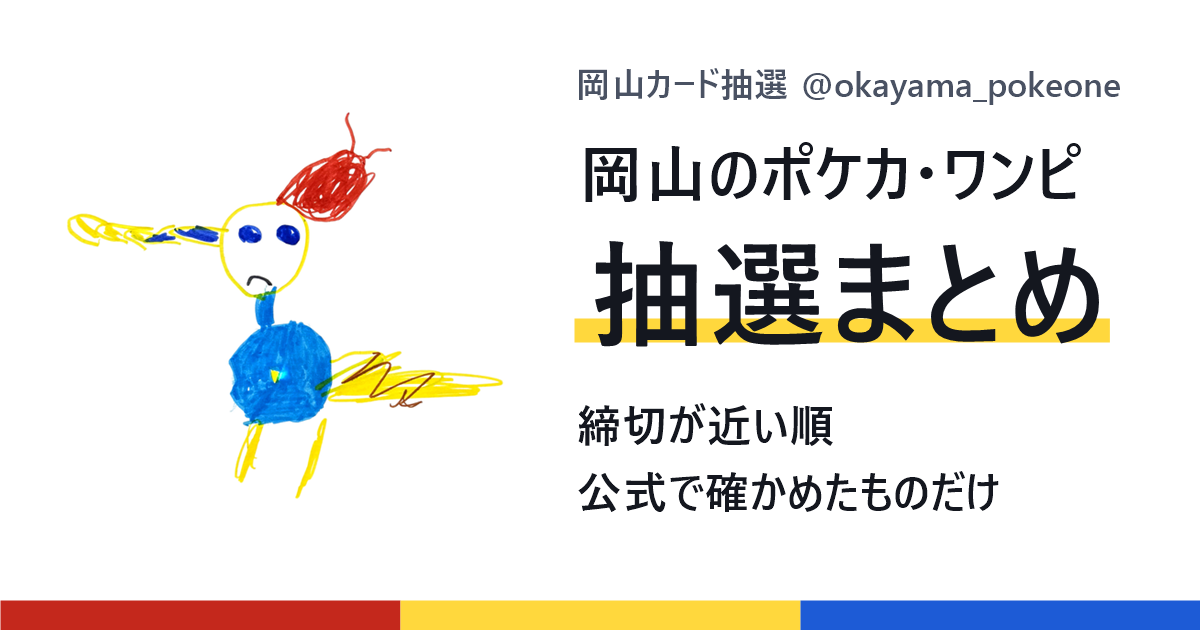
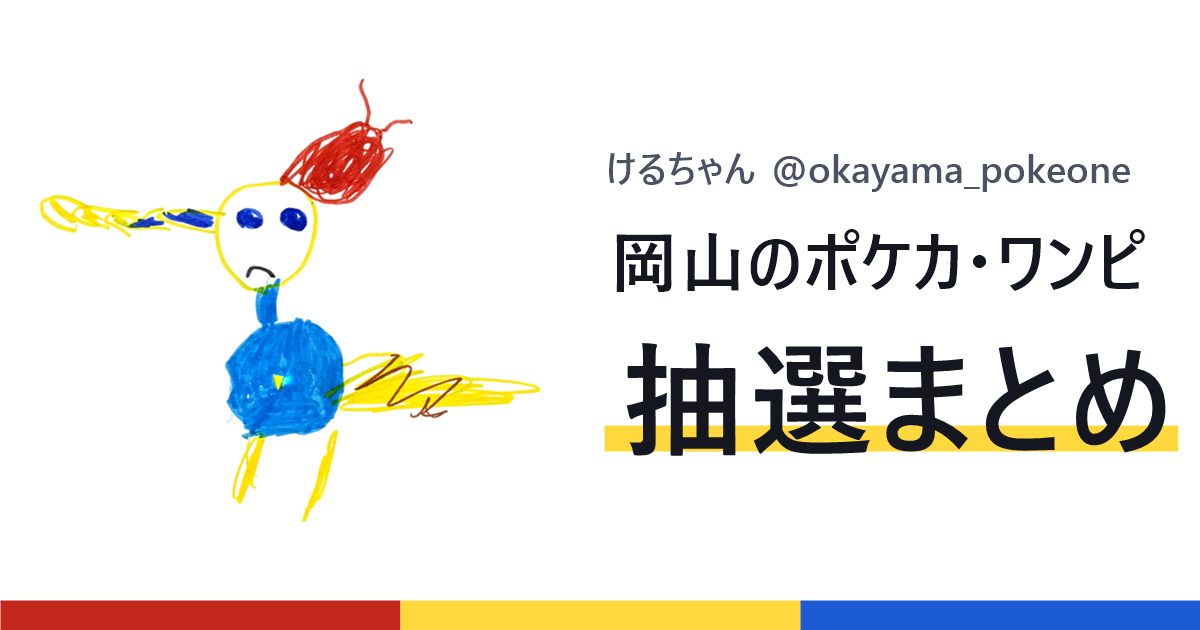
Update index.html (11/10 10:06) + brand name keru, ogp

diff --git a/index.html b/index.html
@@ -77,19 +77,19 @@ h1 em{display:inline-block;font-style:normal;font-size:30px;font-weight:800;line
 footer{margin:34px 0 0;font-size:12px;color:var(--sub)}footer p{margin:0 0 10px}
 footer a{display:inline-flex;align-items:center;min-height:44px}
 </style></head><body>
-<header class="top"><span class="brand">岡山カード抽選 @okayama_pokeone</span><a class="fl" href="https://x.com/okayama_pokeone" rel="noopener noreferrer">フォロー</a></header>
+<header class="top"><span class="brand">けるちゃん @okayama_pokeone</span><a class="fl" href="https://x.com/okayama_pokeone" rel="noopener noreferrer">フォロー</a></header>
 <main>
 <div class="hero"><img src="assets/keru_icon.png" width="104" height="104" alt="けるちゃん"><h1><span>岡山のポケカ・ワンピ</span><em>抽選まとめ</em></h1></div>
 <p class="bubble">お店の公式の告知で確かめた抽選だけを、締切が近い順にのせてるよ。応募の前に、条件はかならずリンク先で確かめてね。</p>
 <div class="cnts"><a class="cnt c-red" href="#d-today">きょう締切 <b>1件</b></a><a class="cnt c-yel" href="#d-tomorrow">あした締切 <b>2件</b></a><a class="cnt c-gray" href="#d-20261112">そのあと <b>12件</b></a></div>
-<p class="upd"><svg viewBox="0 0 16 16" aria-hidden="true"><circle cx="8" cy="8" r="6.5" fill="none" stroke="currentColor" stroke-width="1.5"/><path d="M8 4.5V8l2.5 1.5" fill="none" stroke="currentColor" stroke-width="1.5" stroke-linecap="round"/></svg><span>最終更新 11/10(火) 8:37</span></p>
+<p class="upd"><svg viewBox="0 0 16 16" aria-hidden="true"><circle cx="8" cy="8" r="6.5" fill="none" stroke="currentColor" stroke-width="1.5"/><path d="M8 4.5V8l2.5 1.5" fill="none" stroke="currentColor" stroke-width="1.5" stroke-linecap="round"/></svg><span>最終更新 11/10(火) 10:06</span></p>
 <div class="filters" id="filters" hidden><div class="fr"><button type="button" class="chip" data-g="all" aria-pressed="true">すべて</button><button type="button" class="chip" data-g="ポケカ" aria-pressed="false">ポケカ</button><button type="button" class="chip" data-g="ワンピ" aria-pressed="false">ワンピ</button><span class="sep"></span><button type="button" class="chip" data-k="shop" aria-pressed="false">お店</button><button type="button" class="chip" data-k="mail" aria-pressed="false">通販</button></div><div class="fr prods"><span class="lbl">商品</span><button type="button" class="chip" data-p="ハドウシーカー" aria-pressed="false">ハドウシーカー</button><button type="button" class="chip" data-p="神の支配" aria-pressed="false">神の支配</button><button type="button" class="chip" data-p="30th CELEBRATION" aria-pressed="false">30th CELEBRATION</button></div></div>
-<section class="day" id="d-today"><div class="dh"><div class="cal today"><span class="mo">11月</span><span class="dn">10</span></div><div><h2>きょうが締切</h2><p>11/10(火)・きょう中</p></div></div><div class="box today"><article class="item" data-genre="ポケカ" data-kind="mail" data-p="ハドウシーカー"><div class="r1"><div class="tags"><span class="tag pk">ポケカ</span><span class="tag mail">通販</span><span class="tag new">NEW</span></div><span class="dl now"><b>16:59</b>まで</span></div><div class="r2"><div class="main"><p class="prod">ハドウシーカー</p><p class="shop">ポケモンセンターオンライン ・ 6,000円（税込）・送料なし</p></div></div><div class="btns"><a class="btn hot wide" href="https://www.pokemoncenter-online.com/news/?id=20261030" rel="noopener noreferrer">ポケセンオンラインのお知らせ ＞</a><a class="btn hot wide" href="https://www.pokemoncenter-online.com/9900000008482.html" rel="noopener noreferrer">本人認証済み枠 ＞</a><a class="btn hot wide" href="https://www.pokemoncenter-online.com/9900000008567.html" rel="noopener noreferrer">本人未認証枠 ＞</a></div><p class="cond">1人1回まで。プレイヤーズクラブで本人認証した人は「本人認証済み枠」、していない人は「本人未認証枠」から応募（違う枠から応募すると落選。認証済みの枠のほうが当選数が多い）。認証済み枠はポケセンオンラインとプレイヤーズクラブの登録メールアドレスを同じにしておく。未認証枠は電話番号認証が必要で、支払いはクレジットカードのみ。過去にポケセンオンラインで同じ商品を買った人は落選</p><details class="more"><summary>条件と日程をぜんぶ見る <span class="pl">＋</span><span class="mi">−</span></summary><table class="tb"><tbody><tr><th>受付</th><td>11/6(金) 16:00〜11/10(火) 16:59</td></tr><tr><th>当選発表</th><td>11/17(火) 15:00</td></tr><tr><th>購入・受取</th><td>11/17(火) 15:00〜11/24(火) 16:59</td></tr><tr><th>応募方法</th><td>ポケモンセンターオンラインにログインして、自分に合う枠の商品ページから応募。当選したら注文期間内に注文・支払い（12/1〜12/18 発送予定）</td></tr><tr><th>条件</th><td>1人1回まで。プレイヤーズクラブで本人認証した人は「本人認証済み枠」、していない人は「本人未認証枠」から応募（違う枠から応募すると落選。認証済みの枠のほうが当選数が多い）。認証済み枠はポケセンオンラインとプレイヤーズクラブの登録メールアドレスを同じにしておく。未認証枠は電話番号認証が必要で、支払いはクレジットカードのみ。過去にポケセンオンラインで同じ商品を買った人は落選</td></tr><tr><th>公式を確認</th><td>11/9(月)</td></tr></tbody></table></details></article></div></section><section class="day" id="d-tomorrow"><div class="dh"><div class="cal"><span class="mo">11月</span><span class="dn">11</span></div><div><h2>あしたが締切</h2><p>11/11(水)・あと1日</p></div></div><div class="box"><article class="item" data-genre="ポケカ" data-kind="mail" data-p="ハドウシーカー"><div class="r1"><div class="tags"><span class="tag pk">ポケカ</span><span class="tag mail">通販</span><span class="tag new">NEW</span></div><span class="dl"><b>10:59</b>まで</span></div><div class="r2"><div class="main"><p class="prod">ハドウシーカー</p><p class="shop">ヨドバシ.com</p></div><a class="btn hot" href="https://limited.yodobashi.com/entry/shared/" rel="noopener noreferrer">応募ページ ＞</a></div><p class="soon">受付は きょう 11:00 から</p><p class="cond">ヨドバシ・ドット・コム会員。2024/11/6〜2026/11/5 にヨドバシ・ドット・コムで買った人、またはヨドバシカメラの店で買って 11/5 までにポイント共通化した人が抽選の対象。iPhone のヨドバシアプリからは申し込めない（ブラウザから）</p><details class="more"><summary>条件と日程をぜんぶ見る <span class="pl">＋</span><span class="mi">−</span></summary><table class="tb"><tbody><tr><th>受付</th><td>11/10(火) 11:00〜11/11(水) 10:59</td></tr><tr><th>当選発表</th><td>11/11(水) 18:00</td></tr><tr><th>購入・受取</th><td>11/12(木) 23:59</td></tr><tr><th>応募方法</th><td>ヨドバシ.com の抽選ページから申し込み。当選したら注文期限までに注文し、配送か店舗受け取りを選ぶ</td></tr><tr><th>条件</th><td>ヨドバシ・ドット・コム会員。2024/11/6〜2026/11/5 にヨドバシ・ドット・コムで買った人、またはヨドバシカメラの店で買って 11/5 までにポイント共通化した人が抽選の対象。iPhone のヨドバシアプリからは申し込めない（ブラウザから）</td></tr><tr><th>公式を確認</th><td>11/10(火)</td></tr></tbody></table></details></article><article class="item" data-genre="ポケカ" data-kind="mail" data-p="ハドウシーカー"><div class="r1"><div class="tags"><span class="tag pk">ポケカ</span><span class="tag mail">通販</span><span class="tag new">NEW</span></div><span class="dl"><b>18:00</b>まで</span></div><div class="r2"><div class="main"><p class="prod">ハドウシーカー</p><p class="shop">晴れる屋2通販</p></div><a class="btn hot" href="https://livepocket.jp/e/s191v" rel="noopener noreferrer">応募ページ ＞</a></div><p class="cond">LivePocket で申し込む抽選（販売元 株式会社晴れる屋）</p><details class="more"><summary>条件と日程をぜんぶ見る <span class="pl">＋</span><span class="mi">−</span></summary><table class="tb"><tbody><tr><th>受付</th><td>11/5(木) 18:00〜11/11(水) 18:00</td></tr><tr><th>当選発表</th><td>11/16(月)</td></tr><tr><th>応募方法</th><td>LivePocket の応募ページから申し込み</td></tr><tr><th>条件</th><td>LivePocket で申し込む抽選（販売元 株式会社晴れる屋）</td></tr><tr><th>公式を確認</th><td>11/10(火)</td></tr></tbody></table></details></article></div></section><aside class="follow"><img src="assets/keru_icon.png" width="60" height="60" alt=""><div><p>新しい抽選が出たら、Xでお知らせしてるよ。</p><a class="fbtn" href="https://x.com/okayama_pokeone" rel="noopener noreferrer">@okayama_pokeone をフォローする</a></div></aside><section class="day" id="d-20261112"><div class="dh"><div class="cal"><span class="mo">11月</span><span class="dn">12</span></div><div><h2>木曜日が締切</h2><p>11/12(木)・あと2日</p></div></div><div class="box"><article class="item" data-genre="ポケカ" data-kind="mail" data-p="30th CELEBRATION"><div class="r1"><div class="tags"><span class="tag pk">ポケカ</span><span class="tag mail">通販</span><span class="tag new">NEW</span></div><span class="dl"><b>17:59</b>まで</span></div><div class="r2"><div class="main"><p class="prod">30th CELEBRATION</p><p class="shop">ゲオ</p></div><a class="btn" href="https://geo-online.co.jp/news/790" rel="noopener noreferrer">応募ページ ＞</a></div><p class="cond">店舗レンタル会員機能付きPontaカードとゲオアプリの連携が済んでいる人・購入時に本人確認書類と会員証を見せる・自分のスマホの『店舗購入』画面を見せる（スクショ不可）・再販・1人1点・1回まで・外箱は店舗回収でパックのみの受け渡し</p><details class="more"><summary>条件と日程をぜんぶ見る <span class="pl">＋</span><span class="mi">−</span></summary><table class="tb"><tbody><tr><th>受付</th><td>11/9(月) 11:00〜11/12(木) 17:59</td></tr><tr><th>応募方法</th><td>ゲオの公式お知らせから申し込み</td></tr><tr><th>条件</th><td>店舗レンタル会員機能付きPontaカードとゲオアプリの連携が済んでいる人・購入時に本人確認書類と会員証を見せる・自分のスマホの『店舗購入』画面を見せる（スクショ不可）・再販・1人1点・1回まで・外箱は店舗回収でパックのみの受け渡し</td></tr><tr><th>公式を確認</th><td>11/9(月)</td></tr></tbody></table></details></article><article class="item" data-genre="ポケカ" data-kind="mail" data-p="ハドウシーカー"><div class="r1"><div class="tags"><span class="tag pk">ポケカ</span><span class="tag mail">通販</span><span class="tag new">NEW</span></div><span class="dl"><b>17:59</b>まで</span></div><div class="r2"><div class="main"><p class="prod">ハドウシーカー</p><p class="shop">ゲオ</p></div><a class="btn" href="https://geo-online.co.jp/news/789" rel="noopener noreferrer">応募ページ ＞</a></div><p class="cond">店舗レンタル会員機能付きPontaカードとゲオアプリの連携が済んでいる人・購入時に本人確認書類と会員証を見せる・自分のスマホの『店舗購入』画面を見せる（スクショ不可）・1人1点・1回まで・外箱は店舗回収でパックのみの受け渡し</p><details class="more"><summary>条件と日程をぜんぶ見る <span class="pl">＋</span><span class="mi">−</span></summary><table class="tb"><tbody><tr><th>受付</th><td>11/9(月) 11:00〜11/12(木) 17:59</td></tr><tr><th>応募方法</th><td>ゲオの公式お知らせから申し込み</td></tr><tr><th>条件</th><td>店舗レンタル会員機能付きPontaカードとゲオアプリの連携が済んでいる人・購入時に本人確認書類と会員証を見せる・自分のスマホの『店舗購入』画面を見せる（スクショ不可）・1人1点・1回まで・外箱は店舗回収でパックのみの受け渡し</td></tr><tr><th>公式を確認</th><td>11/9(月)</td></tr></tbody></table></details></article><article class="item" data-genre="ポケカ" data-kind="mail" data-p="ハドウシーカー"><div class="r1"><div class="tags"><span class="tag pk">ポケカ</span><span class="tag mail">通販</span><span class="tag new">NEW</span></div><span class="dl"><b>19:59</b>まで</span></div><div class="r2"><div class="main"><p class="prod">ハドウシーカー</p><p class="shop">キッズリパブリック（イオン） ・ 5,973円（税込）</p></div><a class="btn" href="https://www.kidsrepublic.jp/campaign/campaign_detail/20261127pokemoncardgame" rel="noopener noreferrer">応募ページ ＞</a></div><p class="cond">1人1ID1回。iAEON ID（携帯電話番号のログインID）の連携が必要。受け取り店は本州・四国のイオン・イオンスタイル・スーパーセンターの直営おもちゃ売場（一部を除く）</p><details class="more"><summary>条件と日程をぜんぶ見る <span class="pl">＋</span><span class="mi">−</span></summary><table class="tb"><tbody><tr><th>受付</th><td>11/6(金) 11:00〜11/12(木) 19:59</td></tr><tr><th>当選発表</th><td>11/26(木) 12:00</td></tr><tr><th>購入・受取</th><td>11/27(金)〜12/2(水)</td></tr><tr><th>応募方法</th><td>キッズリパブリックアプリの応募ページから申し込み（店頭では受け付けない）。当選はアプリのクーポンで届く</td></tr><tr><th>条件</th><td>1人1ID1回。iAEON ID（携帯電話番号のログインID）の連携が必要。受け取り店は本州・四国のイオン・イオンスタイル・スーパーセンターの直営おもちゃ売場（一部を除く）</td></tr><tr><th>公式を確認</th><td>11/10(火)</td></tr></tbody></table></details></article><article class="item" data-genre="ワンピ" data-kind="mail" data-p="神の支配"><div class="r1"><div class="tags"><span class="tag op">ワンピ</span><span class="tag mail">通販</span><span class="tag new">NEW</span></div><span class="dl"><b>23:00</b>まで</span></div><div class="r2"><div class="main"><p class="prod">神の支配</p><p class="shop">プレミアムバンダイ ・ 5,760円（税込）</p></div><a class="btn" href="https://p-bandai.jp/item/item-1000260752/" rel="noopener noreferrer">応募ページ ＞</a></div><p class="cond">1人1BOXまで。支払いはクレジットカード前払い・プレバンPay（応募時払い）・ペイディのどれか。当選発表は11月中・12月発送予定</p><details class="more"><summary>条件と日程をぜんぶ見る <span class="pl">＋</span><span class="mi">−</span></summary><table class="tb"><tbody><tr><th>受付</th><td>11/6(金) 12:00〜11/12(木) 23:00</td></tr><tr><th>応募方法</th><td>プレミアムバンダイの商品ページから抽選に申し込み（会員登録が必要）</td></tr><tr><th>条件</th><td>1人1BOXまで。支払いはクレジットカード前払い・プレバンPay（応募時払い）・ペイディのどれか。当選発表は11月中・12月発送予定</td></tr><tr><th>公式を確認</th><td>11/9(月)</td></tr></tbody></table></details></article></div></section><section class="day" id="d-20261114"><div class="dh"><div class="cal"><span class="mo">11月</span><span class="dn">14</span></div><div><h2>土曜日が締切</h2><p>11/14(土)・あと4日</p></div></div><div class="box"><article class="item" data-genre="ワンピ" data-kind="shop" data-p="神の支配"><div class="r1"><div class="tags"><span class="tag op">ワンピ</span><span class="tag new">NEW</span></div><span class="dl"><b>23:59</b>まで</span></div><div class="r2"><div class="main"><p class="prod">神の支配</p><p class="shop">TSUTAYA AZ岡南店 ・ 5,760円（税込）</p></div><a class="btn" href="https://livepocket.jp/e/3-y20" rel="noopener noreferrer">応募ページ ＞</a></div><p class="cond">1人1回まで。LivePocket の会員登録（無料）が必要で、本人確認書類と同じ名前で申し込む。購入時に顔写真付きの本人確認書類が必要。店頭渡しのみ（発送なし）</p><details class="more"><summary>条件と日程をぜんぶ見る <span class="pl">＋</span><span class="mi">−</span></summary><table class="tb"><tbody><tr><th>受付</th><td>11/8(日) 9:00〜11/14(土) 23:59</td></tr><tr><th>当選発表</th><td>11/15(日)</td></tr><tr><th>購入・受取</th><td>11/21(土) 9:00〜11/22(日) 23:59</td></tr><tr><th>応募方法</th><td>LivePocket で応募（店頭のQRコードからも同じページ）</td></tr><tr><th>条件</th><td>1人1回まで。LivePocket の会員登録（無料）が必要で、本人確認書類と同じ名前で申し込む。購入時に顔写真付きの本人確認書類が必要。店頭渡しのみ（発送なし）</td></tr><tr><th>公式を確認</th><td>11/10(火)</td></tr></tbody></table></details></article></div></section><section class="day" id="d-20261115"><div class="dh"><div class="cal"><span class="mo">11月</span><span class="dn">15</span></div><div><h2>日曜日が締切</h2><p>11/15(日)・あと5日</p></div></div><div class="box"><article class="item" data-genre="ワンピ" data-kind="shop" data-p="神の支配"><div class="r1"><div class="tags"><span class="tag op">ワンピ</span><span class="tag new">NEW</span></div><span class="dl none">時刻は告知で確認</span></div><div class="r2"><div class="main"><p class="prod">神の支配</p><p class="shop">カードボックス玉島店、カードボックス藤田店、カードボックス岡山駅前店</p></div></div><div class="btns"><a class="btn wide" href="https://x.com/media21tama" rel="noopener noreferrer">カードボックス玉島店（公式X） ＞</a><a class="btn wide" href="https://x.com/21P4" rel="noopener noreferrer">カードボックス藤田店（公式X） ＞</a><a class="btn wide" href="https://x.com/Cardbox_okayama" rel="noopener noreferrer">カードボックス岡山駅前店（公式X） ＞</a></div><p class="cond">11/8 までに会員になっている人・1家族（同じ住所）1枚まで・系列店で1枚だけ（抽選券はお店で配布）</p><details class="more"><summary>条件と日程をぜんぶ見る <span class="pl">＋</span><span class="mi">−</span></summary><table class="tb"><tbody><tr><th>締切</th><td>11/15(日)</td></tr><tr><th>当選発表</th><td>11/20(金)</td></tr><tr><th>購入・受取</th><td>11/21(土)〜11/30(月)</td></tr><tr><th>応募方法</th><td>お店で抽選券をもらう</td></tr><tr><th>条件</th><td>11/8 までに会員になっている人・1家族（同じ住所）1枚まで・系列店で1枚だけ（抽選券はお店で配布）</td></tr><tr><th>必要なもの</th><td>会員証・顔写真付きの身分証</td></tr><tr><th>公式を確認</th><td>11/9(月)</td></tr></tbody></table></details></article><article class="item" data-genre="ポケカ" data-kind="shop" data-p="30th CELEBRATION"><div class="r1"><div class="tags"><span class="tag pk">ポケカ</span><span class="tag new">NEW</span></div><span class="dl"><b>21:59</b>まで</span></div><div class="r2"><div class="main"><p class="prod">30th CELEBRATION</p><p class="shop">TSUTAYA大安寺店 ・ 7,200円（税込）</p></div><a class="btn" href="https://livepocket.jp/e/fksqs" rel="noopener noreferrer">応募ページ ＞</a></div><p class="cond">おひとり様1BOXまで・本人が来店して購入・外箱は回収しパックのみの受け渡し</p><details class="more"><summary>条件と日程をぜんぶ見る <span class="pl">＋</span><span class="mi">−</span></summary><table class="tb"><tbody><tr><th>受付</th><td>11/6(金) 21:29〜11/15(日) 21:59</td></tr><tr><th>当選発表</th><td>11/16(月)</td></tr><tr><th>購入・受取</th><td>11/23(月) 9:00〜11/26(木) 21:59</td></tr><tr><th>応募方法</th><td>LivePocket から申し込み（会員登録は無料）</td></tr><tr><th>条件</th><td>おひとり様1BOXまで・本人が来店して購入・外箱は回収しパックのみの受け渡し</td></tr><tr><th>必要なもの</th><td>写真付きの本人確認書類</td></tr><tr><th>公式を確認</th><td>11/9(月)</td></tr></tbody></table></details></article><article class="item" data-genre="ポケカ" data-kind="shop" data-p="ハドウシーカー"><div class="r1"><div class="tags"><span class="tag pk">ポケカ</span><span class="tag new">NEW</span></div><span class="dl"><b>21:59</b>まで</span></div><div class="r2"><div class="main"><p class="prod">ハドウシーカー</p><p class="shop">TSUTAYA大安寺店 ・ 6,000円（税込）</p></div><a class="btn" href="https://livepocket.jp/e/vqetd" rel="noopener noreferrer">応募ページ ＞</a></div><p class="cond">おひとり様1BOXまで・本人が来店して購入・シュリンクははがしてパックのみの受け渡し</p><details class="more"><summary>条件と日程をぜんぶ見る <span class="pl">＋</span><span class="mi">−</span></summary><table class="tb"><tbody><tr><th>受付</th><td>11/6(金) 20:59〜11/15(日) 21:59</td></tr><tr><th>当選発表</th><td>11/16(月)</td></tr><tr><th>購入・受取</th><td>11/27(金) 9:00〜11/29(日) 21:59</td></tr><tr><th>応募方法</th><td>LivePocket から申し込み（会員登録は無料）</td></tr><tr><th>条件</th><td>おひとり様1BOXまで・本人が来店して購入・シュリンクははがしてパックのみの受け渡し</td></tr><tr><th>必要なもの</th><td>写真付きの本人確認書類</td></tr><tr><th>公式を確認</th><td>11/9(月)</td></tr></tbody></table></details></article><article class="item" data-genre="ワンピ" data-kind="shop" data-p="神の支配"><div class="r1"><div class="tags"><span class="tag op">ワンピ</span><span class="tag new">NEW</span></div><span class="dl"><b>21:59</b>まで</span></div><div class="r2"><div class="main"><p class="prod">神の支配</p><p class="shop">TSUTAYA大安寺店 ・ 5,760円（税込）</p></div><a class="btn" href="https://livepocket.jp/e/bt0zd" rel="noopener noreferrer">応募ページ ＞</a></div><p class="cond">おひとり様1BOXまで・本人が来店して購入・外箱は回収しパックのみの受け渡し</p><details class="more"><summary>条件と日程をぜんぶ見る <span class="pl">＋</span><span class="mi">−</span></summary><table class="tb"><tbody><tr><th>受付</th><td>11/6(金) 21:03〜11/15(日) 21:59</td></tr><tr><th>当選発表</th><td>11/16(月)</td></tr><tr><th>購入・受取</th><td>11/21(土) 9:00〜11/22(日) 21:59</td></tr><tr><th>応募方法</th><td>LivePocket から申し込み（会員登録は無料）</td></tr><tr><th>条件</th><td>おひとり様1BOXまで・本人が来店して購入・外箱は回収しパックのみの受け渡し</td></tr><tr><th>必要なもの</th><td>写真付きの本人確認書類</td></tr><tr><th>公式を確認</th><td>11/9(月)</td></tr></tbody></table></details></article><article class="item" data-genre="ポケカ" data-kind="shop" data-p="ハドウシーカー"><div class="r1"><div class="tags"><span class="tag pk">ポケカ</span><span class="tag new">NEW</span></div><span class="dl"><b>22:00</b>まで</span></div><div class="r2"><div class="main"><p class="prod">ハドウシーカー（一般向け）</p><p class="shop">TSUTAYA山陽店 ・ 1BOX 6,000円（税込）</p></div><a class="btn" href="https://livepocket.jp/e/luqc8" rel="noopener noreferrer">応募ページ ＞</a></div><p class="cond">マイナンバーカードと、応募時に入力したポイントカードを見せられる人・お店のXアカウントをフォローしている人（販売時に確認）・応募は営業時間中（9〜22時）のみ・お1人様1回</p><details class="more"><summary>条件と日程をぜんぶ見る <span class="pl">＋</span><span class="mi">−</span></summary><table class="tb"><tbody><tr><th>受付</th><td>11/9(月) 9:00〜11/15(日) 22:00</td></tr><tr><th>当選発表</th><td>11/20(金)</td></tr><tr><th>購入・受取</th><td>11/27(金)〜11/29(日)</td></tr><tr><th>応募方法</th><td>LivePocket から申し込み</td></tr><tr><th>条件</th><td>マイナンバーカードと、応募時に入力したポイントカードを見せられる人・お店のXアカウントをフォローしている人（販売時に確認）・応募は営業時間中（9〜22時）のみ・お1人様1回</td></tr><tr><th>必要なもの</th><td>マイナンバーカード・ポイントカード</td></tr><tr><th>公式を確認</th><td>11/9(月)</td></tr></tbody></table></details></article><article class="item" data-genre="ポケカ" data-kind="shop" data-p="ハドウシーカー"><div class="r1"><div class="tags"><span class="tag pk">ポケカ</span><span class="tag new">NEW</span></div><span class="dl"><b>22:00</b>まで</span></div><div class="r2"><div class="main"><p class="prod">ハドウシーカー（プレイヤー向け）</p><p class="shop">TSUTAYA山陽店 ・ 1BOX 6,000円（税込）</p></div><a class="btn" href="https://livepocket.jp/e/kxmup" rel="noopener noreferrer">応募ページ ＞</a></div><p class="cond">2026/10/1〜11/8 にお店の公認大会へ最後まで参加した人・プレイヤーズクラブのアカウントがある人・応募は営業時間中（9〜22時）のみ・お1人様1回</p><details class="more"><summary>条件と日程をぜんぶ見る <span class="pl">＋</span><span class="mi">−</span></summary><table class="tb"><tbody><tr><th>受付</th><td>11/9(月) 9:00〜11/15(日) 22:00</td></tr><tr><th>当選発表</th><td>11/20(金)</td></tr><tr><th>購入・受取</th><td>11/27(金)〜11/29(日)</td></tr><tr><th>応募方法</th><td>LivePocket のアンケートにプレイヤーズクラブのIDとプレイヤーネームを入力</td></tr><tr><th>条件</th><td>2026/10/1〜11/8 にお店の公認大会へ最後まで参加した人・プレイヤーズクラブのアカウントがある人・応募は営業時間中（9〜22時）のみ・お1人様1回</td></tr><tr><th>必要なもの</th><td>プレイヤーズクラブのアカウント</td></tr><tr><th>公式を確認</th><td>11/9(月)</td></tr></tbody></table></details></article></div></section><section class="day" id="d-20261117"><div class="dh"><div class="cal"><span class="mo">11月</span><span class="dn">17</span></div><div><h2>来週の火曜日が締切</h2><p>11/17(火)・あと7日</p></div></div><div class="box"><article class="item" data-genre="ワンピ" data-kind="shop" data-p="神の支配"><div class="r1"><div class="tags"><span class="tag op">ワンピ</span><span class="tag new">NEW</span></div><span class="dl none">時刻は告知で確認</span></div><div class="r2"><div class="main"><p class="prod">神の支配</p><p class="shop">オレタン岡山本店</p></div><a class="btn" href="https://oretan.membercard.jp/lottery?search_store_id=118" rel="noopener noreferrer">応募ページ ＞</a></div><p class="cond">オレタン岡山本店のモバイル会員証が必要・ネット申込のみ・11/21発売分</p><details class="more"><summary>条件と日程をぜんぶ見る <span class="pl">＋</span><span class="mi">−</span></summary><table class="tb"><tbody><tr><th>締切</th><td>11/17(火)</td></tr><tr><th>応募方法</th><td>お店の応募ページからネットで申し込み</td></tr><tr><th>条件</th><td>オレタン岡山本店のモバイル会員証が必要・ネット申込のみ・11/21発売分</td></tr><tr><th>公式を確認</th><td>11/9(月)</td></tr></tbody></table></details></article></div></section>
+<section class="day" id="d-today"><div class="dh"><div class="cal today"><span class="mo">11月</span><span class="dn">10</span></div><div><h2>きょうが締切</h2><p>11/10(火)・きょう中</p></div></div><div class="box today"><article class="item" data-genre="ポケカ" data-kind="mail" data-p="ハドウシーカー"><div class="r1"><div class="tags"><span class="tag pk">ポケカ</span><span class="tag mail">通販</span><span class="tag new">NEW</span></div><span class="dl now"><b>16:59</b>まで</span></div><div class="r2"><div class="main"><p class="prod">ハドウシーカー</p><p class="shop">ポケモンセンターオンライン ・ 6,000円（税込）・送料なし</p></div></div><div class="btns"><a class="btn hot wide" href="https://www.pokemoncenter-online.com/news/?id=20261030" rel="noopener noreferrer">ポケセンオンラインのお知らせ ＞</a><a class="btn hot wide" href="https://www.pokemoncenter-online.com/9900000008482.html" rel="noopener noreferrer">本人認証済み枠 ＞</a><a class="btn hot wide" href="https://www.pokemoncenter-online.com/9900000008567.html" rel="noopener noreferrer">本人未認証枠 ＞</a></div><p class="cond">1人1回まで。プレイヤーズクラブで本人認証した人は「本人認証済み枠」、していない人は「本人未認証枠」から応募（違う枠から応募すると落選。認証済みの枠のほうが当選数が多い）。認証済み枠はポケセンオンラインとプレイヤーズクラブの登録メールアドレスを同じにしておく。未認証枠は電話番号認証が必要で、支払いはクレジットカードのみ。過去にポケセンオンラインで同じ商品を買った人は落選</p><details class="more"><summary>条件と日程をぜんぶ見る <span class="pl">＋</span><span class="mi">−</span></summary><table class="tb"><tbody><tr><th>受付</th><td>11/6(金) 16:00〜11/10(火) 16:59</td></tr><tr><th>当選発表</th><td>11/17(火) 15:00</td></tr><tr><th>購入・受取</th><td>11/17(火) 15:00〜11/24(火) 16:59</td></tr><tr><th>応募方法</th><td>ポケモンセンターオンラインにログインして、自分に合う枠の商品ページから応募。当選したら注文期間内に注文・支払い（12/1〜12/18 発送予定）</td></tr><tr><th>条件</th><td>1人1回まで。プレイヤーズクラブで本人認証した人は「本人認証済み枠」、していない人は「本人未認証枠」から応募（違う枠から応募すると落選。認証済みの枠のほうが当選数が多い）。認証済み枠はポケセンオンラインとプレイヤーズクラブの登録メールアドレスを同じにしておく。未認証枠は電話番号認証が必要で、支払いはクレジットカードのみ。過去にポケセンオンラインで同じ商品を買った人は落選</td></tr><tr><th>公式を確認</th><td>11/9(月)</td></tr></tbody></table></details></article></div></section><section class="day" id="d-tomorrow"><div class="dh"><div class="cal"><span class="mo">11月</span><span class="dn">11</span></div><div><h2>あしたが締切</h2><p>11/11(水)・あと1日</p></div></div><div class="box"><article class="item" data-genre="ポケカ" data-kind="mail" data-p="ハドウシーカー"><div class="r1"><div class="tags"><span class="tag pk">ポケカ</span><span class="tag mail">通販</span><span class="tag new">NEW</span></div><span class="dl"><b>10:59</b>まで</span></div><div class="r2"><div class="main"><p class="prod">ハドウシーカー</p><p class="shop">ヨドバシ.com</p></div><a class="btn hot" href="https://limited.yodobashi.com/entry/shared/" rel="noopener noreferrer">応募ページ ＞</a></div><p class="soon">受付は きょう 11:00 から</p><p class="cond">ヨドバシ・ドット・コム会員。2024/11/6〜2026/11/5 にヨドバシ・ドット・コムで買った人、またはヨドバシカメラの店で買って 11/5 までにポイント共通化した人が抽選の対象。iPhone のヨドバシアプリからは申し込めない（ブラウザから）</p><details class="more"><summary>条件と日程をぜんぶ見る <span class="pl">＋</span><span class="mi">−</span></summary><table class="tb"><tbody><tr><th>受付</th><td>11/10(火) 11:00〜11/11(水) 10:59</td></tr><tr><th>当選発表</th><td>11/11(水) 18:00</td></tr><tr><th>購入・受取</th><td>11/12(木) 23:59</td></tr><tr><th>応募方法</th><td>ヨドバシ.com の抽選ページから申し込み。当選したら注文期限までに注文し、配送か店舗受け取りを選ぶ</td></tr><tr><th>条件</th><td>ヨドバシ・ドット・コム会員。2024/11/6〜2026/11/5 にヨドバシ・ドット・コムで買った人、またはヨドバシカメラの店で買って 11/5 までにポイント共通化した人が抽選の対象。iPhone のヨドバシアプリからは申し込めない（ブラウザから）</td></tr><tr><th>公式を確認</th><td>11/10(火)</td></tr></tbody></table></details></article><article class="item" data-genre="ポケカ" data-kind="mail" data-p="ハドウシーカー"><div class="r1"><div class="tags"><span class="tag pk">ポケカ</span><span class="tag mail">通販</span><span class="tag new">NEW</span></div><span class="dl"><b>18:00</b>まで</span></div><div class="r2"><div class="main"><p class="prod">ハドウシーカー</p><p class="shop">晴れる屋2通販</p></div><a class="btn hot" href="https://livepocket.jp/e/s191v" rel="noopener noreferrer">応募ページ ＞</a></div><p class="cond">LivePocket で申し込む抽選（販売元 株式会社晴れる屋）</p><details class="more"><summary>条件と日程をぜんぶ見る <span class="pl">＋</span><span class="mi">−</span></summary><table class="tb"><tbody><tr><th>受付</th><td>11/5(木) 18:00〜11/11(水) 18:00</td></tr><tr><th>当選発表</th><td>11/16(月)</td></tr><tr><th>応募方法</th><td>LivePocket の応募ページから申し込み</td></tr><tr><th>条件</th><td>LivePocket で申し込む抽選（販売元 株式会社晴れる屋）</td></tr><tr><th>公式を確認</th><td>11/10(火)</td></tr></tbody></table></details></article></div></section><aside class="follow"><img src="assets/keru_icon.png" width="60" height="60" alt=""><div><p>新しい抽選が出たら、Xでお知らせしてるよ。</p><a class="fbtn" href="https://x.com/okayama_pokeone" rel="noopener noreferrer">@okayama_pokeone をフォローする</a></div></aside><section class="day" id="d-20261112"><div class="dh"><div class="cal"><span class="mo">11月</span><span class="dn">12</span></div><div><h2>木曜日が締切</h2><p>11/12(木)・あと2日</p></div></div><div class="box"><article class="item" data-genre="ポケカ" data-kind="mail" data-p="30th CELEBRATION"><div class="r1"><div class="tags"><span class="tag pk">ポケカ</span><span class="tag mail">通販</span><span class="tag new">NEW</span></div><span class="dl"><b>17:59</b>まで</span></div><div class="r2"><div class="main"><p class="prod">30th CELEBRATION</p><p class="shop">ゲオ</p></div><a class="btn" href="https://geo-online.co.jp/news/790" rel="noopener noreferrer">応募ページ ＞</a></div><p class="cond">店舗レンタル会員機能付きPontaカードとゲオアプリの連携が済んでいる人・購入時に本人確認書類と会員証を見せる・自分のスマホの『店舗購入』画面を見せる（スクショ不可）・再販・1人1点・1回まで・外箱は店舗回収でパックのみの受け渡し</p><details class="more"><summary>条件と日程をぜんぶ見る <span class="pl">＋</span><span class="mi">−</span></summary><table class="tb"><tbody><tr><th>受付</th><td>11/9(月) 11:00〜11/12(木) 17:59</td></tr><tr><th>応募方法</th><td>ゲオの公式お知らせから申し込み</td></tr><tr><th>条件</th><td>店舗レンタル会員機能付きPontaカードとゲオアプリの連携が済んでいる人・購入時に本人確認書類と会員証を見せる・自分のスマホの『店舗購入』画面を見せる（スクショ不可）・再販・1人1点・1回まで・外箱は店舗回収でパックのみの受け渡し</td></tr><tr><th>公式を確認</th><td>11/9(月)</td></tr></tbody></table></details></article><article class="item" data-genre="ポケカ" data-kind="mail" data-p="ハドウシーカー"><div class="r1"><div class="tags"><span class="tag pk">ポケカ</span><span class="tag mail">通販</span><span class="tag new">NEW</span></div><span class="dl"><b>17:59</b>まで</span></div><div class="r2"><div class="main"><p class="prod">ハドウシーカー</p><p class="shop">ゲオ</p></div><a class="btn" href="https://geo-online.co.jp/news/789" rel="noopener noreferrer">応募ページ ＞</a></div><p class="cond">店舗レンタル会員機能付きPontaカードとゲオアプリの連携が済んでいる人・購入時に本人確認書類と会員証を見せる・自分のスマホの『店舗購入』画面を見せる（スクショ不可）・1人1点・1回まで・外箱は店舗回収でパックのみの受け渡し</p><details class="more"><summary>条件と日程をぜんぶ見る <span class="pl">＋</span><span class="mi">−</span></summary><table class="tb"><tbody><tr><th>受付</th><td>11/9(月) 11:00〜11/12(木) 17:59</td></tr><tr><th>応募方法</th><td>ゲオの公式お知らせから申し込み</td></tr><tr><th>条件</th><td>店舗レンタル会員機能付きPontaカードとゲオアプリの連携が済んでいる人・購入時に本人確認書類と会員証を見せる・自分のスマホの『店舗購入』画面を見せる（スクショ不可）・1人1点・1回まで・外箱は店舗回収でパックのみの受け渡し</td></tr><tr><th>公式を確認</th><td>11/9(月)</td></tr></tbody></table></details></article><article class="item" data-genre="ポケカ" data-kind="mail" data-p="ハドウシーカー"><div class="r1"><div class="tags"><span class="tag pk">ポケカ</span><span class="tag mail">通販</span><span class="tag new">NEW</span></div><span class="dl"><b>19:59</b>まで</span></div><div class="r2"><div class="main"><p class="prod">ハドウシーカー</p><p class="shop">キッズリパブリック（イオン） ・ 5,973円（税込）</p></div><a class="btn" href="https://www.kidsrepublic.jp/campaign/campaign_detail/20261127pokemoncardgame" rel="noopener noreferrer">応募ページ ＞</a></div><p class="cond">1人1ID1回。iAEON ID（携帯電話番号のログインID）の連携が必要。受け取り店は本州・四国のイオン・イオンスタイル・スーパーセンターの直営おもちゃ売場（一部を除く）</p><details class="more"><summary>条件と日程をぜんぶ見る <span class="pl">＋</span><span class="mi">−</span></summary><table class="tb"><tbody><tr><th>受付</th><td>11/6(金) 11:00〜11/12(木) 19:59</td></tr><tr><th>当選発表</th><td>11/26(木) 12:00</td></tr><tr><th>購入・受取</th><td>11/27(金)〜12/2(水)</td></tr><tr><th>応募方法</th><td>キッズリパブリックアプリの応募ページから申し込み（店頭では受け付けない）。当選はアプリのクーポンで届く</td></tr><tr><th>条件</th><td>1人1ID1回。iAEON ID（携帯電話番号のログインID）の連携が必要。受け取り店は本州・四国のイオン・イオンスタイル・スーパーセンターの直営おもちゃ売場（一部を除く）</td></tr><tr><th>公式を確認</th><td>11/10(火)</td></tr></tbody></table></details></article><article class="item" data-genre="ワンピ" data-kind="mail" data-p="神の支配"><div class="r1"><div class="tags"><span class="tag op">ワンピ</span><span class="tag mail">通販</span><span class="tag new">NEW</span></div><span class="dl"><b>23:00</b>まで</span></div><div class="r2"><div class="main"><p class="prod">神の支配</p><p class="shop">プレミアムバンダイ ・ 5,760円（税込）</p></div><a class="btn" href="https://p-bandai.jp/item/item-1000260752/" rel="noopener noreferrer">応募ページ ＞</a></div><p class="cond">1人1BOXまで。支払いはクレジットカード前払い・プレバンPay（応募時払い）・ペイディのどれか。当選発表は11月中・12月発送予定</p><details class="more"><summary>条件と日程をぜんぶ見る <span class="pl">＋</span><span class="mi">−</span></summary><table class="tb"><tbody><tr><th>受付</th><td>11/6(金) 12:00〜11/12(木) 23:00</td></tr><tr><th>応募方法</th><td>プレミアムバンダイの商品ページから抽選に申し込み（会員登録が必要）</td></tr><tr><th>条件</th><td>1人1BOXまで。支払いはクレジットカード前払い・プレバンPay（応募時払い）・ペイディのどれか。当選発表は11月中・12月発送予定</td></tr><tr><th>公式を確認</th><td>11/9(月)</td></tr></tbody></table></details></article></div></section><section class="day" id="d-20261114"><div class="dh"><div class="cal"><span class="mo">11月</span><span class="dn">14</span></div><div><h2>土曜日が締切</h2><p>11/14(土)・あと4日</p></div></div><div class="box"><article class="item" data-genre="ワンピ" data-kind="shop" data-p="神の支配"><div class="r1"><div class="tags"><span class="tag op">ワンピ</span></div><span class="dl"><b>23:59</b>まで</span></div><div class="r2"><div class="main"><p class="prod">神の支配</p><p class="shop">TSUTAYA AZ岡南店 ・ 5,760円（税込）</p></div><a class="btn" href="https://livepocket.jp/e/3-y20" rel="noopener noreferrer">応募ページ ＞</a></div><p class="cond">1人1回まで。LivePocket の会員登録（無料）が必要で、本人確認書類と同じ名前で申し込む。購入時に顔写真付きの本人確認書類が必要。店頭渡しのみ（発送なし）</p><details class="more"><summary>条件と日程をぜんぶ見る <span class="pl">＋</span><span class="mi">−</span></summary><table class="tb"><tbody><tr><th>受付</th><td>11/8(日) 9:00〜11/14(土) 23:59</td></tr><tr><th>当選発表</th><td>11/15(日)</td></tr><tr><th>購入・受取</th><td>11/21(土) 9:00〜11/22(日) 23:59</td></tr><tr><th>応募方法</th><td>LivePocket で応募（店頭のQRコードからも同じページ）</td></tr><tr><th>条件</th><td>1人1回まで。LivePocket の会員登録（無料）が必要で、本人確認書類と同じ名前で申し込む。購入時に顔写真付きの本人確認書類が必要。店頭渡しのみ（発送なし）</td></tr><tr><th>公式を確認</th><td>11/10(火)</td></tr></tbody></table></details></article></div></section><section class="day" id="d-20261115"><div class="dh"><div class="cal"><span class="mo">11月</span><span class="dn">15</span></div><div><h2>日曜日が締切</h2><p>11/15(日)・あと5日</p></div></div><div class="box"><article class="item" data-genre="ワンピ" data-kind="shop" data-p="神の支配"><div class="r1"><div class="tags"><span class="tag op">ワンピ</span><span class="tag new">NEW</span></div><span class="dl none">時刻は告知で確認</span></div><div class="r2"><div class="main"><p class="prod">神の支配</p><p class="shop">カードボックス玉島店、カードボックス藤田店、カードボックス岡山駅前店</p></div></div><div class="btns"><a class="btn wide" href="https://x.com/media21tama" rel="noopener noreferrer">カードボックス玉島店（公式X） ＞</a><a class="btn wide" href="https://x.com/21P4" rel="noopener noreferrer">カードボックス藤田店（公式X） ＞</a><a class="btn wide" href="https://x.com/Cardbox_okayama" rel="noopener noreferrer">カードボックス岡山駅前店（公式X） ＞</a></div><p class="cond">11/8 までに会員になっている人・1家族（同じ住所）1枚まで・系列店で1枚だけ（抽選券はお店で配布）</p><details class="more"><summary>条件と日程をぜんぶ見る <span class="pl">＋</span><span class="mi">−</span></summary><table class="tb"><tbody><tr><th>締切</th><td>11/15(日)</td></tr><tr><th>当選発表</th><td>11/20(金)</td></tr><tr><th>購入・受取</th><td>11/21(土)〜11/30(月)</td></tr><tr><th>応募方法</th><td>お店で抽選券をもらう</td></tr><tr><th>条件</th><td>11/8 までに会員になっている人・1家族（同じ住所）1枚まで・系列店で1枚だけ（抽選券はお店で配布）</td></tr><tr><th>必要なもの</th><td>会員証・顔写真付きの身分証</td></tr><tr><th>公式を確認</th><td>11/9(月)</td></tr></tbody></table></details></article><article class="item" data-genre="ポケカ" data-kind="shop" data-p="30th CELEBRATION"><div class="r1"><div class="tags"><span class="tag pk">ポケカ</span><span class="tag new">NEW</span></div><span class="dl"><b>21:59</b>まで</span></div><div class="r2"><div class="main"><p class="prod">30th CELEBRATION</p><p class="shop">TSUTAYA大安寺店 ・ 7,200円（税込）</p></div><a class="btn" href="https://livepocket.jp/e/fksqs" rel="noopener noreferrer">応募ページ ＞</a></div><p class="cond">おひとり様1BOXまで・本人が来店して購入・外箱は回収しパックのみの受け渡し</p><details class="more"><summary>条件と日程をぜんぶ見る <span class="pl">＋</span><span class="mi">−</span></summary><table class="tb"><tbody><tr><th>受付</th><td>11/6(金) 21:29〜11/15(日) 21:59</td></tr><tr><th>当選発表</th><td>11/16(月)</td></tr><tr><th>購入・受取</th><td>11/23(月) 9:00〜11/26(木) 21:59</td></tr><tr><th>応募方法</th><td>LivePocket から申し込み（会員登録は無料）</td></tr><tr><th>条件</th><td>おひとり様1BOXまで・本人が来店して購入・外箱は回収しパックのみの受け渡し</td></tr><tr><th>必要なもの</th><td>写真付きの本人確認書類</td></tr><tr><th>公式を確認</th><td>11/9(月)</td></tr></tbody></table></details></article><article class="item" data-genre="ポケカ" data-kind="shop" data-p="ハドウシーカー"><div class="r1"><div class="tags"><span class="tag pk">ポケカ</span><span class="tag new">NEW</span></div><span class="dl"><b>21:59</b>まで</span></div><div class="r2"><div class="main"><p class="prod">ハドウシーカー</p><p class="shop">TSUTAYA大安寺店 ・ 6,000円（税込）</p></div><a class="btn" href="https://livepocket.jp/e/vqetd" rel="noopener noreferrer">応募ページ ＞</a></div><p class="cond">おひとり様1BOXまで・本人が来店して購入・シュリンクははがしてパックのみの受け渡し</p><details class="more"><summary>条件と日程をぜんぶ見る <span class="pl">＋</span><span class="mi">−</span></summary><table class="tb"><tbody><tr><th>受付</th><td>11/6(金) 20:59〜11/15(日) 21:59</td></tr><tr><th>当選発表</th><td>11/16(月)</td></tr><tr><th>購入・受取</th><td>11/27(金) 9:00〜11/29(日) 21:59</td></tr><tr><th>応募方法</th><td>LivePocket から申し込み（会員登録は無料）</td></tr><tr><th>条件</th><td>おひとり様1BOXまで・本人が来店して購入・シュリンクははがしてパックのみの受け渡し</td></tr><tr><th>必要なもの</th><td>写真付きの本人確認書類</td></tr><tr><th>公式を確認</th><td>11/9(月)</td></tr></tbody></table></details></article><article class="item" data-genre="ワンピ" data-kind="shop" data-p="神の支配"><div class="r1"><div class="tags"><span class="tag op">ワンピ</span><span class="tag new">NEW</span></div><span class="dl"><b>21:59</b>まで</span></div><div class="r2"><div class="main"><p class="prod">神の支配</p><p class="shop">TSUTAYA大安寺店 ・ 5,760円（税込）</p></div><a class="btn" href="https://livepocket.jp/e/bt0zd" rel="noopener noreferrer">応募ページ ＞</a></div><p class="cond">おひとり様1BOXまで・本人が来店して購入・外箱は回収しパックのみの受け渡し</p><details class="more"><summary>条件と日程をぜんぶ見る <span class="pl">＋</span><span class="mi">−</span></summary><table class="tb"><tbody><tr><th>受付</th><td>11/6(金) 21:03〜11/15(日) 21:59</td></tr><tr><th>当選発表</th><td>11/16(月)</td></tr><tr><th>購入・受取</th><td>11/21(土) 9:00〜11/22(日) 21:59</td></tr><tr><th>応募方法</th><td>LivePocket から申し込み（会員登録は無料）</td></tr><tr><th>条件</th><td>おひとり様1BOXまで・本人が来店して購入・外箱は回収しパックのみの受け渡し</td></tr><tr><th>必要なもの</th><td>写真付きの本人確認書類</td></tr><tr><th>公式を確認</th><td>11/9(月)</td></tr></tbody></table></details></article><article class="item" data-genre="ポケカ" data-kind="shop" data-p="ハドウシーカー"><div class="r1"><div class="tags"><span class="tag pk">ポケカ</span></div><span class="dl"><b>22:00</b>まで</span></div><div class="r2"><div class="main"><p class="prod">ハドウシーカー（一般向け）</p><p class="shop">TSUTAYA山陽店 ・ 1BOX 6,000円（税込）</p></div><a class="btn" href="https://livepocket.jp/e/luqc8" rel="noopener noreferrer">応募ページ ＞</a></div><p class="cond">マイナンバーカードと、応募時に入力したポイントカードを見せられる人・お店のXアカウントをフォローしている人（販売時に確認）・応募は営業時間中（9〜22時）のみ・お1人様1回</p><details class="more"><summary>条件と日程をぜんぶ見る <span class="pl">＋</span><span class="mi">−</span></summary><table class="tb"><tbody><tr><th>受付</th><td>11/9(月) 9:00〜11/15(日) 22:00</td></tr><tr><th>当選発表</th><td>11/20(金)</td></tr><tr><th>購入・受取</th><td>11/27(金)〜11/29(日)</td></tr><tr><th>応募方法</th><td>LivePocket から申し込み</td></tr><tr><th>条件</th><td>マイナンバーカードと、応募時に入力したポイントカードを見せられる人・お店のXアカウントをフォローしている人（販売時に確認）・応募は営業時間中（9〜22時）のみ・お1人様1回</td></tr><tr><th>必要なもの</th><td>マイナンバーカード・ポイントカード</td></tr><tr><th>公式を確認</th><td>11/9(月)</td></tr></tbody></table></details></article><article class="item" data-genre="ポケカ" data-kind="shop" data-p="ハドウシーカー"><div class="r1"><div class="tags"><span class="tag pk">ポケカ</span></div><span class="dl"><b>22:00</b>まで</span></div><div class="r2"><div class="main"><p class="prod">ハドウシーカー（プレイヤー向け）</p><p class="shop">TSUTAYA山陽店 ・ 1BOX 6,000円（税込）</p></div><a class="btn" href="https://livepocket.jp/e/kxmup" rel="noopener noreferrer">応募ページ ＞</a></div><p class="cond">2026/10/1〜11/8 にお店の公認大会へ最後まで参加した人・プレイヤーズクラブのアカウントがある人・応募は営業時間中（9〜22時）のみ・お1人様1回</p><details class="more"><summary>条件と日程をぜんぶ見る <span class="pl">＋</span><span class="mi">−</span></summary><table class="tb"><tbody><tr><th>受付</th><td>11/9(月) 9:00〜11/15(日) 22:00</td></tr><tr><th>当選発表</th><td>11/20(金)</td></tr><tr><th>購入・受取</th><td>11/27(金)〜11/29(日)</td></tr><tr><th>応募方法</th><td>LivePocket のアンケートにプレイヤーズクラブのIDとプレイヤーネームを入力</td></tr><tr><th>条件</th><td>2026/10/1〜11/8 にお店の公認大会へ最後まで参加した人・プレイヤーズクラブのアカウントがある人・応募は営業時間中（9〜22時）のみ・お1人様1回</td></tr><tr><th>必要なもの</th><td>プレイヤーズクラブのアカウント</td></tr><tr><th>公式を確認</th><td>11/9(月)</td></tr></tbody></table></details></article></div></section><section class="day" id="d-20261117"><div class="dh"><div class="cal"><span class="mo">11月</span><span class="dn">17</span></div><div><h2>来週の火曜日が締切</h2><p>11/17(火)・あと7日</p></div></div><div class="box"><article class="item" data-genre="ワンピ" data-kind="shop" data-p="神の支配"><div class="r1"><div class="tags"><span class="tag op">ワンピ</span></div><span class="dl none">時刻は告知で確認</span></div><div class="r2"><div class="main"><p class="prod">神の支配</p><p class="shop">オレタン岡山本店</p></div><a class="btn" href="https://oretan.membercard.jp/lottery?search_store_id=118" rel="noopener noreferrer">応募ページ ＞</a></div><p class="cond">オレタン岡山本店のモバイル会員証が必要・ネット申込のみ・11/21発売分</p><details class="more"><summary>条件と日程をぜんぶ見る <span class="pl">＋</span><span class="mi">−</span></summary><table class="tb"><tbody><tr><th>締切</th><td>11/17(火)</td></tr><tr><th>応募方法</th><td>お店の応募ページからネットで申し込み</td></tr><tr><th>条件</th><td>オレタン岡山本店のモバイル会員証が必要・ネット申込のみ・11/21発売分</td></tr><tr><th>公式を確認</th><td>11/9(月)</td></tr></tbody></table></details></article></div></section>
 <section class="wait" id="wait"><h2>受付は終了・当選発表を待っている抽選</h2><ul><li class="wrow" data-genre="ポケカ" data-kind="shop" data-p="スペシャルデッキセットMEGA"><div class="wl"><p class="prod">スペシャルデッキセットMEGA</p><p class="shop">TSUTAYA大安寺店</p><p class="lk"><a href="https://livepocket.jp/e/snn6o" rel="noopener noreferrer">応募ページ（LivePocket）</a></p></div><div class="wd">発表 11/12(木)</div></li><li class="wrow" data-genre="ポケカ" data-kind="mail" data-p="ハドウシーカー"><div class="wl"><p class="prod">ハドウシーカー</p><p class="shop">セブンネットショッピング</p><p class="lk"><a href="https://7net.omni7.jp/general/027016/fair-hobby-pokemoncardgameo.html" rel="noopener noreferrer">セブンネット公式ページ</a></p></div><div class="wd">発表 11/27(金)</div></li></ul></section>
 <footer>
 <p>締切や条件は、お店の都合で変わることがあります。応募の前に、かならずリンク先の公式ページでご確認ください。</p>
 <p>ポケモンカードゲーム、ワンピースカードゲームは、各権利者の商標です。このページは岡山のカード抽選情報を個人がまとめた非公式のページで、各店舗・メーカーとは関係ありません。</p>
-<p>© 2026 岡山カード抽選（@okayama_pokeone）　けるちゃんのイラストの無断転載はご遠慮ください。</p>
+<p>© 2026 けるちゃん（@okayama_pokeone）　けるちゃんのイラストの無断転載はご遠慮ください。</p>
 <p><a href="https://x.com/okayama_pokeone" rel="noopener noreferrer">X（@okayama_pokeone）</a></p>
 </footer>
 </main><script>
